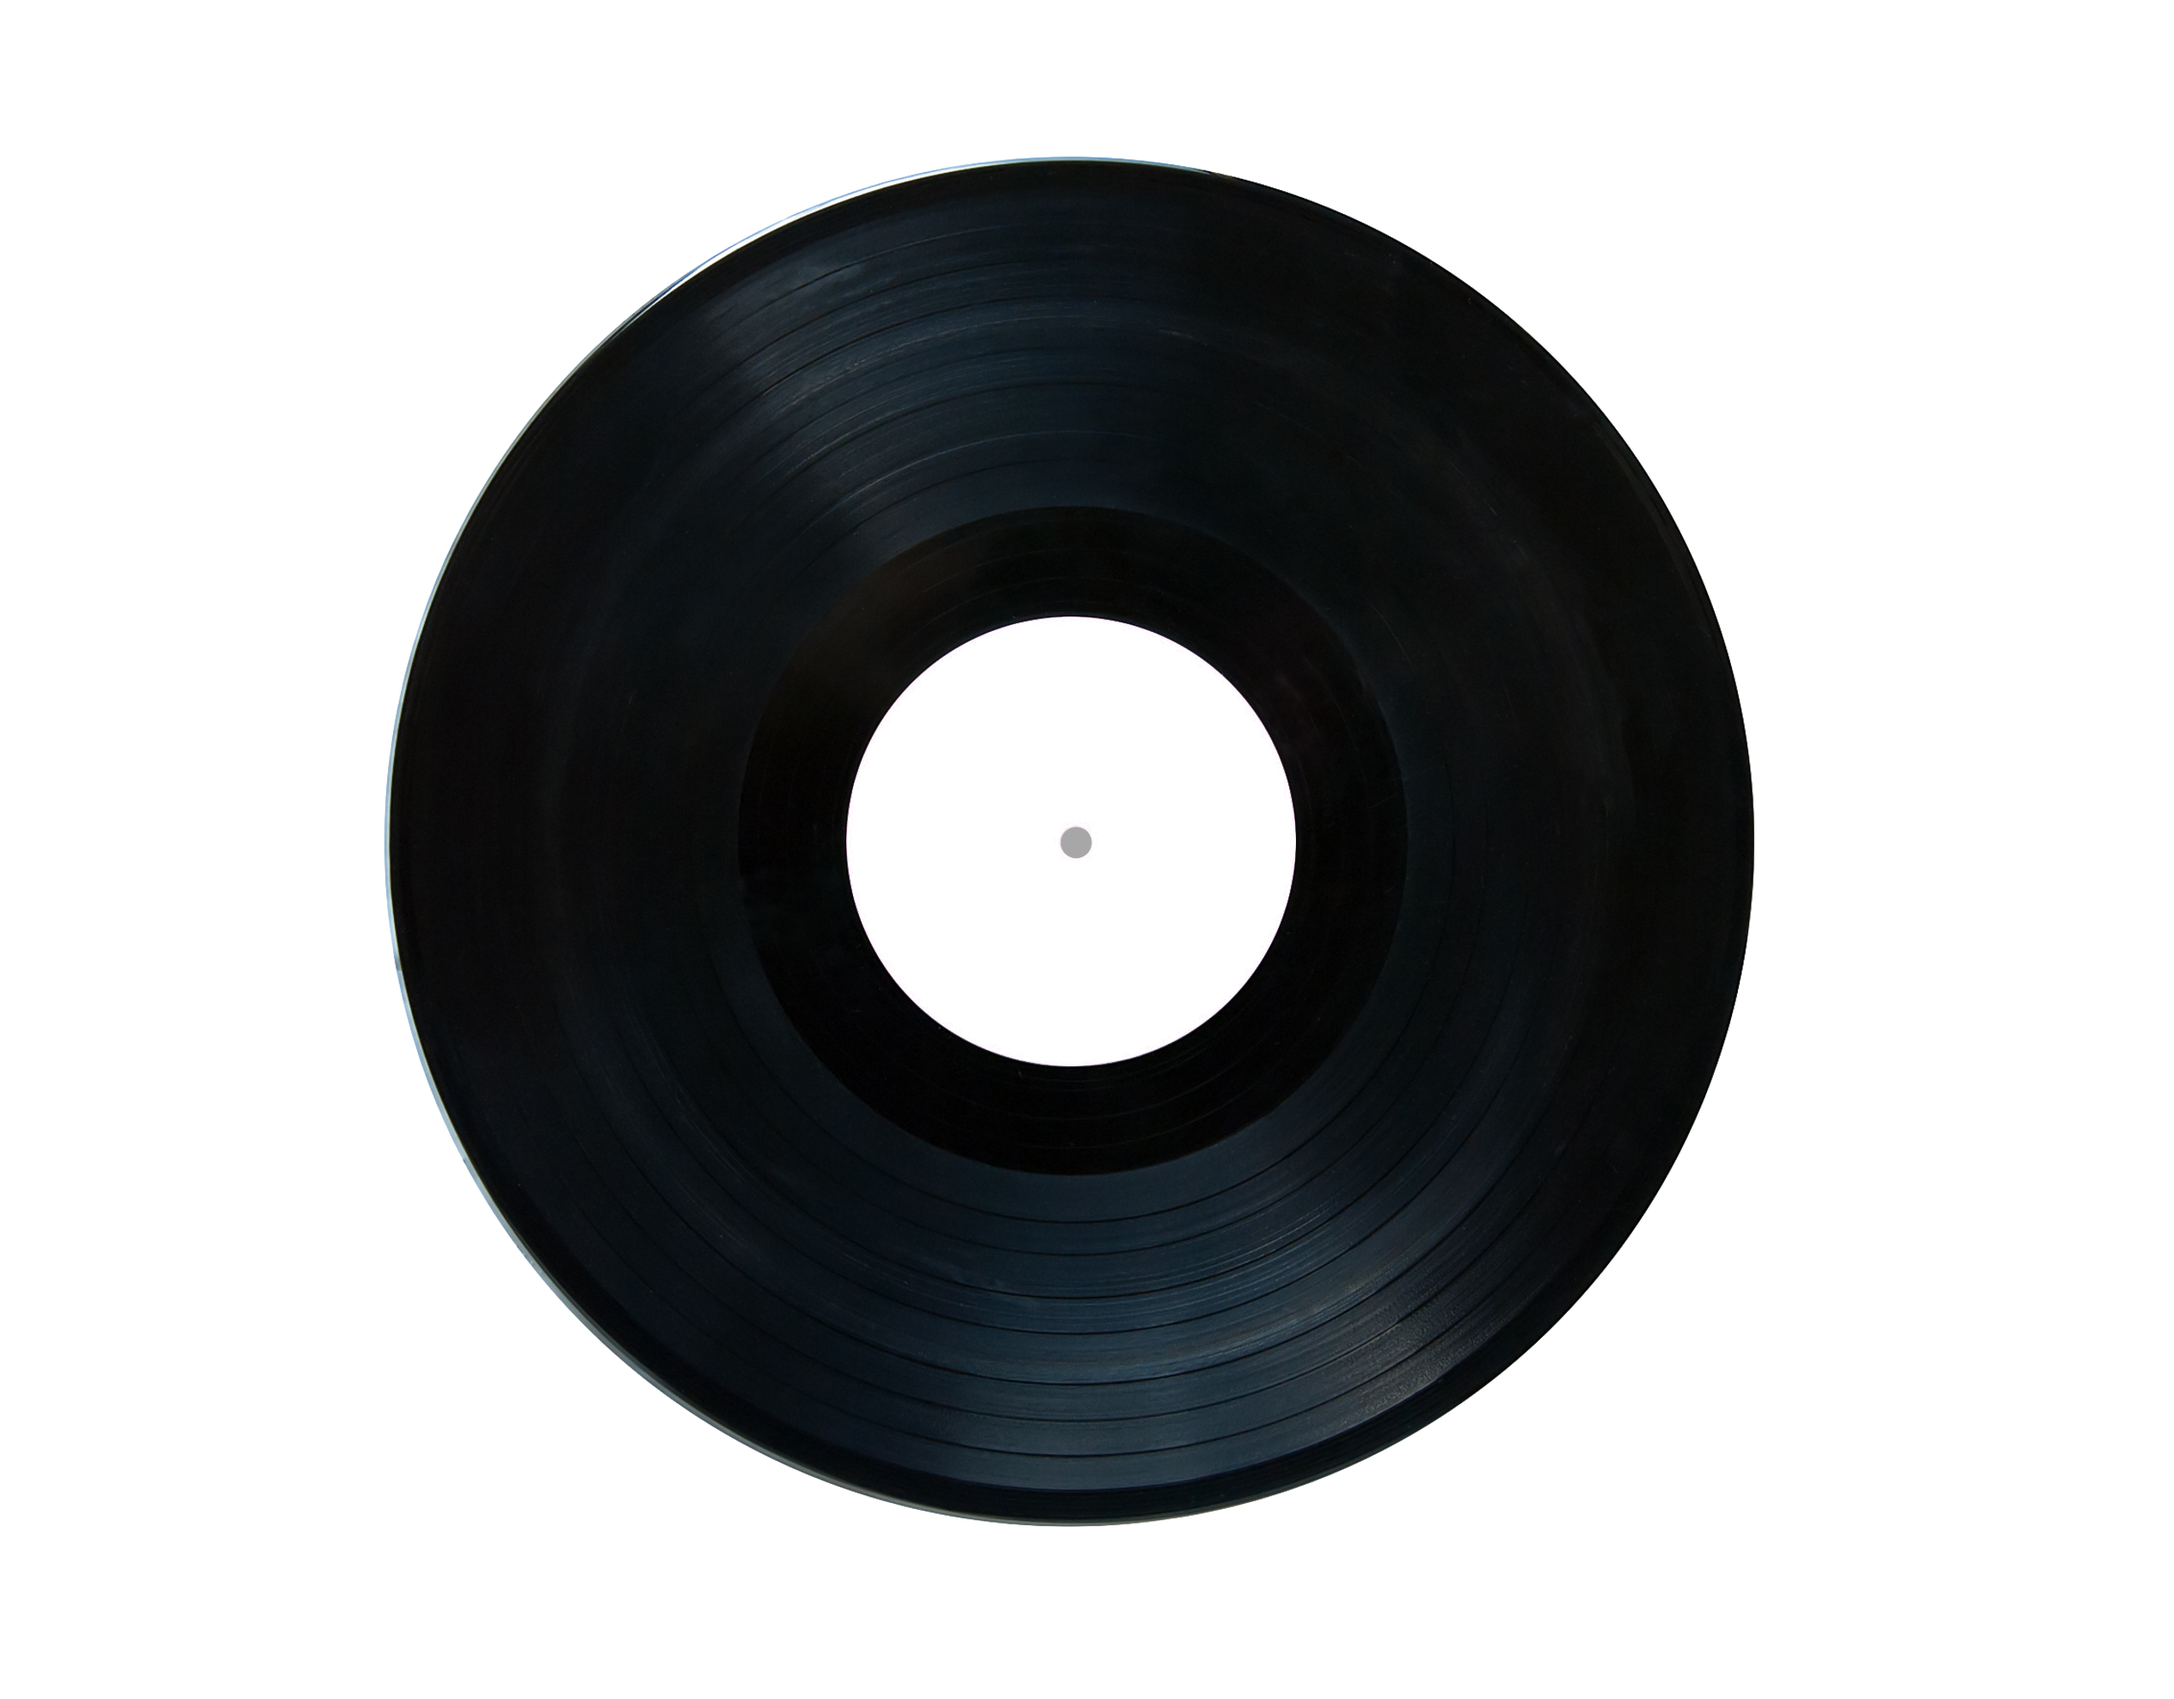
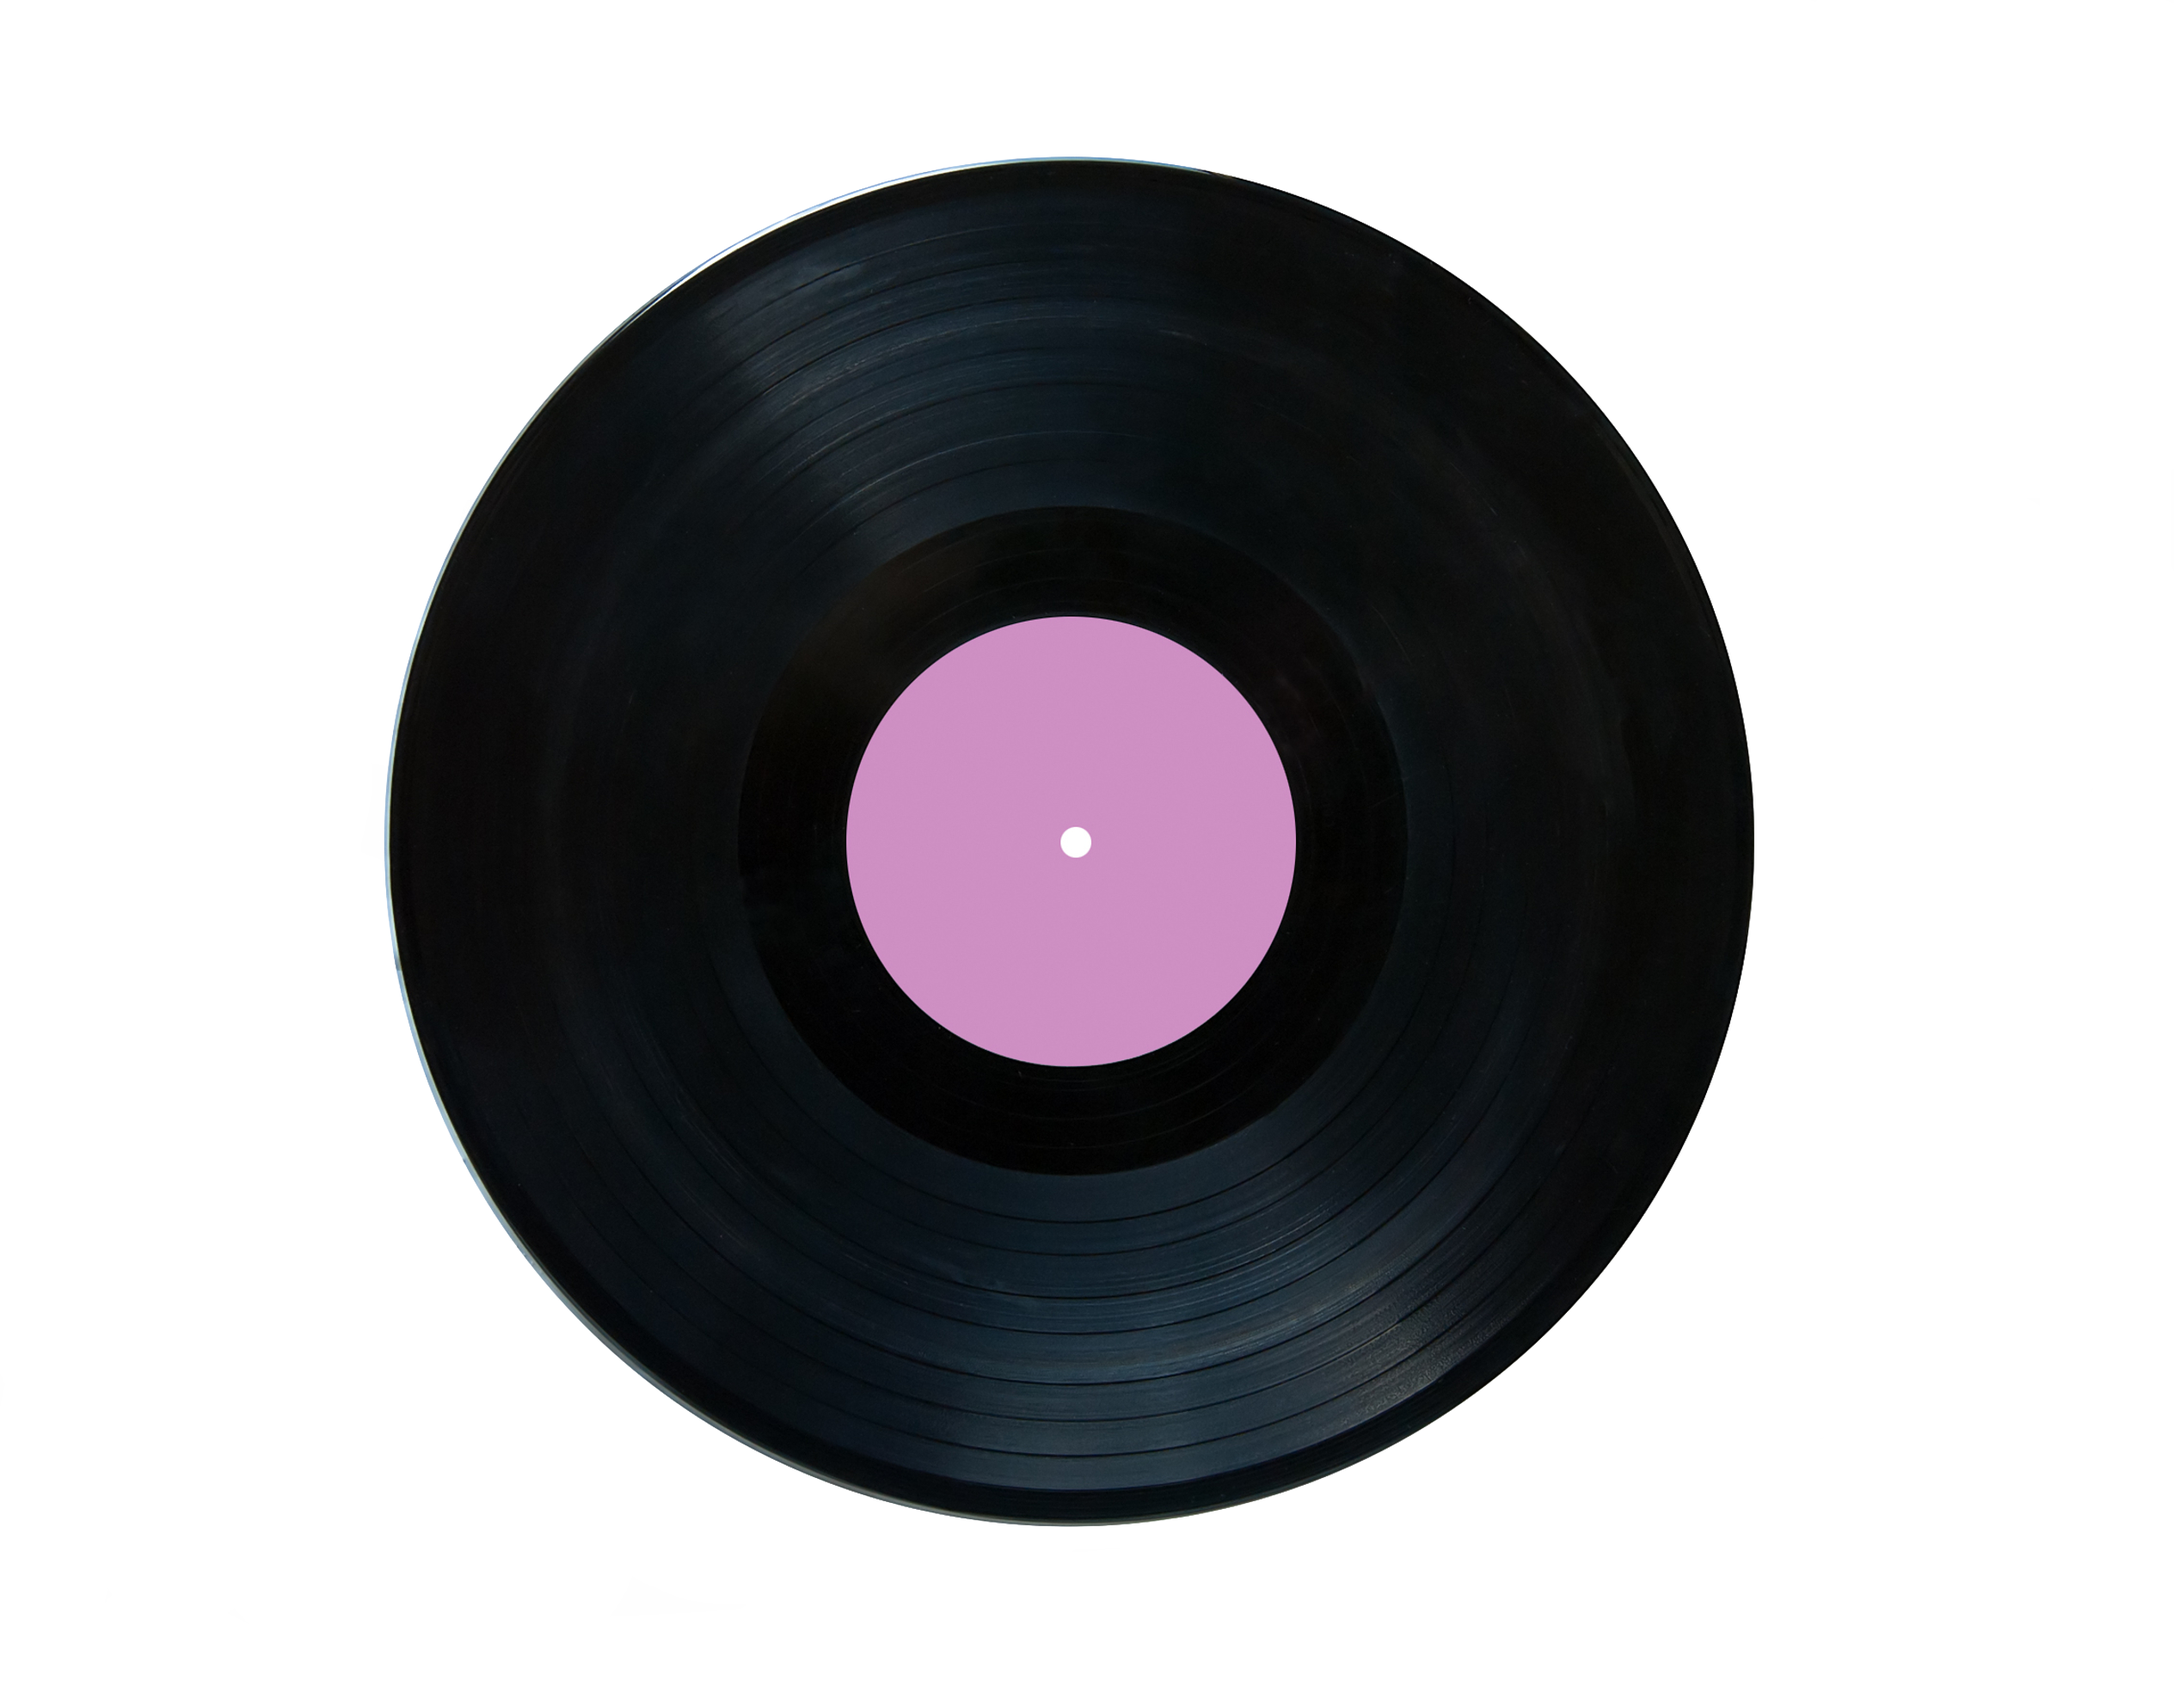
record background added

Changed region(s): [[0.375, 0.3396, 0.5938, 0.6483]]

diff --git a/index.html b/index.html
@@ -11,7 +11,7 @@
 </head>
 
 <body>
-//Testing, testing, 1, 2 ,3
+
   
   
   <div class="container">
@@ -27,9 +27,7 @@
     </div>
  
 
-  <script src="https://code.jquery.com/jquery-3.5.1.min.js" integrity="sha256-9/aliU8dGd2tb6OSsuzixeV4y/faTqgFtohetphbbj0=" crossorigin="anonymous"></script>
-  <script src="https://cdn.jsdelivr.net/npm/popper.js@1.16.1/dist/umd/popper.min.js" integrity="sha384-9/reFTGAW83EW2RDu2S0VKaIzap3H66lZH81PoYlFhbGU+6BZp6G7niu735Sk7lN" crossorigin="anonymous"></script>
-  <script src="https://stackpath.bootstrapcdn.com/bootstrap/4.5.2/js/bootstrap.min.js" integrity="sha384-B4gt1jrGC7Jh4AgTPSdUtOBvfO8shuf57BaghqFfPlYxofvL8/KUEfYiJOMMV+rV" crossorigin="anonymous"></script>
+  
   <script src="https://code.jquery.com/jquery-3.5.1.min.js" integrity="sha256-9/aliU8dGd2tb6OSsuzixeV4y/faTqgFtohetphbbj0=" crossorigin="anonymous"></script>
   <script src="./assets/script/api-calls.js"></script>
   <script src="./assets/script/script.js" async defer></script>

diff --git a/assets/style/style.css b/assets/style/style.css
@@ -4,11 +4,27 @@ html{
 
 body{
     height: 100vh;
-    background-image: linear-gradient(rgb(97, 23, 97), white);
-    background-repeat: no-repeat;
+    
     color: black;
+    /* background-image:linear-gradient(purple, white); */
+    background-image: url(../images/record-cherry.jpg);
+    background-position: center;
+
     
 }
+
+.record{
+    width: 35%;
+    height: 50%;
+    margin-bottom: 0% !important;
+}
+
+/* .record-div{
+    padding: 0;
+    margin-bottom: 0;
+    text-align: center;
+    margin-top: 50px;
+} */
 
 h1{
     font-family: 'Lobster', cursive;
@@ -29,14 +45,20 @@ h1{
 }
 
 .search-btn{
-    background-color: darkslategrey !important;
+    background-color: rgb(29, 12, 12) !important;
     text-transform: none;
     border-radius: 15px;
+
     
 }
 
 .main-content{
     margin-top: 200px;
+    margin-right: 250px !important;
+    color: rgb(29, 12, 12);
+    
+   
+    
 }
 
 
